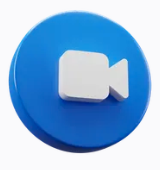
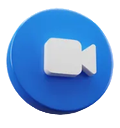
enhance: update video thumbnail and adjust image paths for consistency

diff --git a/docs/index.md b/docs/index.md
@@ -3,28 +3,28 @@
 layout: home
 
 hero:
-  image: /logo_dark.png
+  image: "/logo_dark.png"
   name: "Sairis"
   text: "Help Center"
   tagline: Generative AI Enablement
   actions:
     - theme: brand
       text: Get Started
-      link: /sairis-overview
+      link: "/sairis-overview"
 
 features:
   - title: Application Overview
     details: Learn key concepts about the platform 
     icon: 
-        src: /home.png
+        src: "/home.png"
   - title: Best Practices and Troubleshooting
     details: When you just want to figure something out
     icon: 
-      src: /best.png
+      src: "/best.png"
   - title: Tutorial Videos
     details: Instructional video's on 'how to'
     icon: 
-      src: /videos.png
+      src: "/videos.png"
     
 --- 
 
